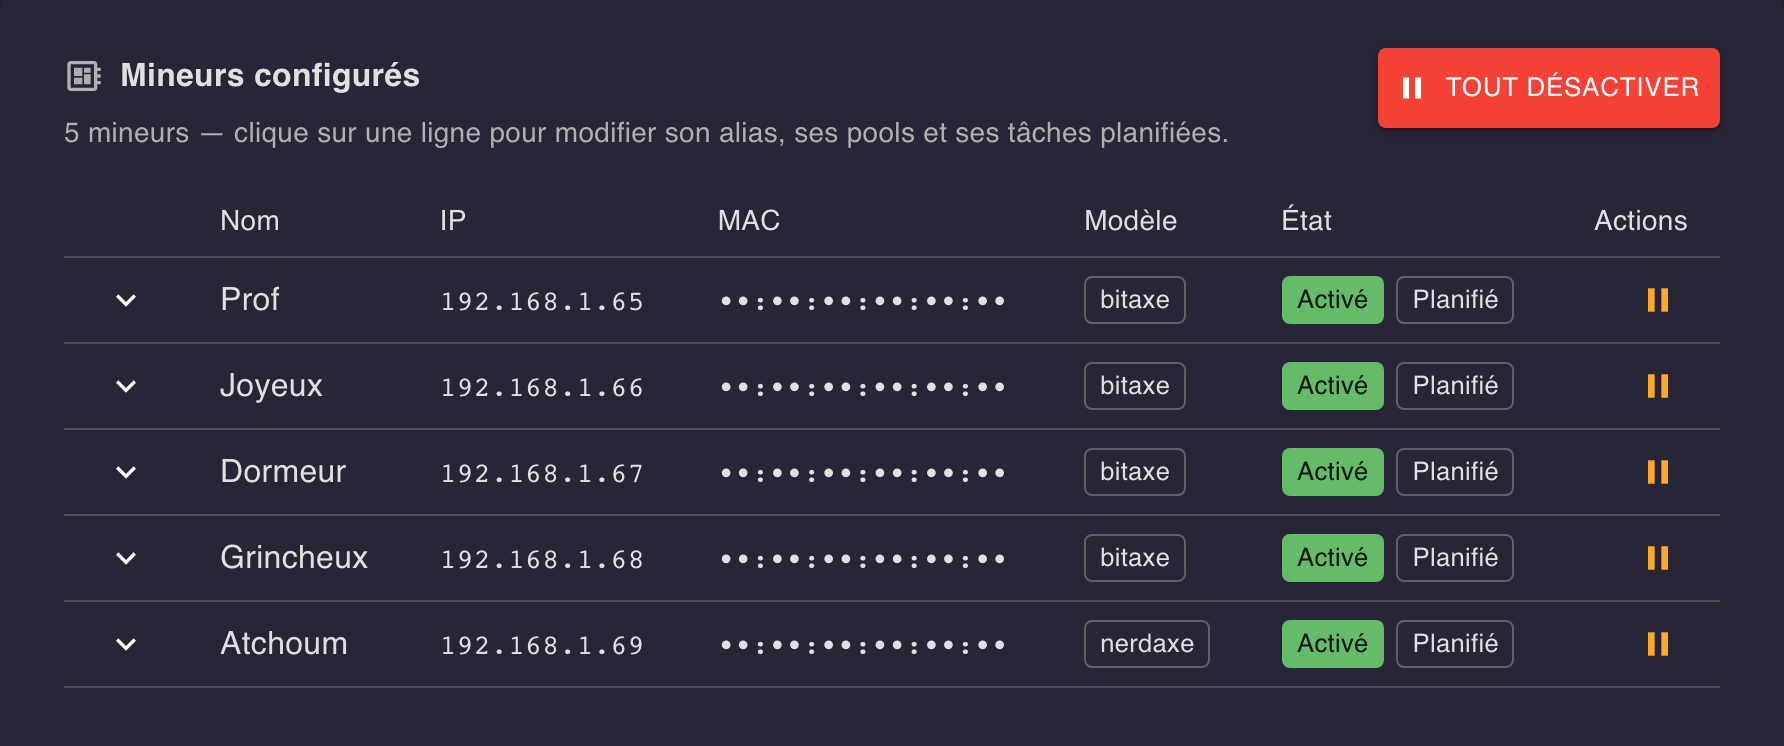
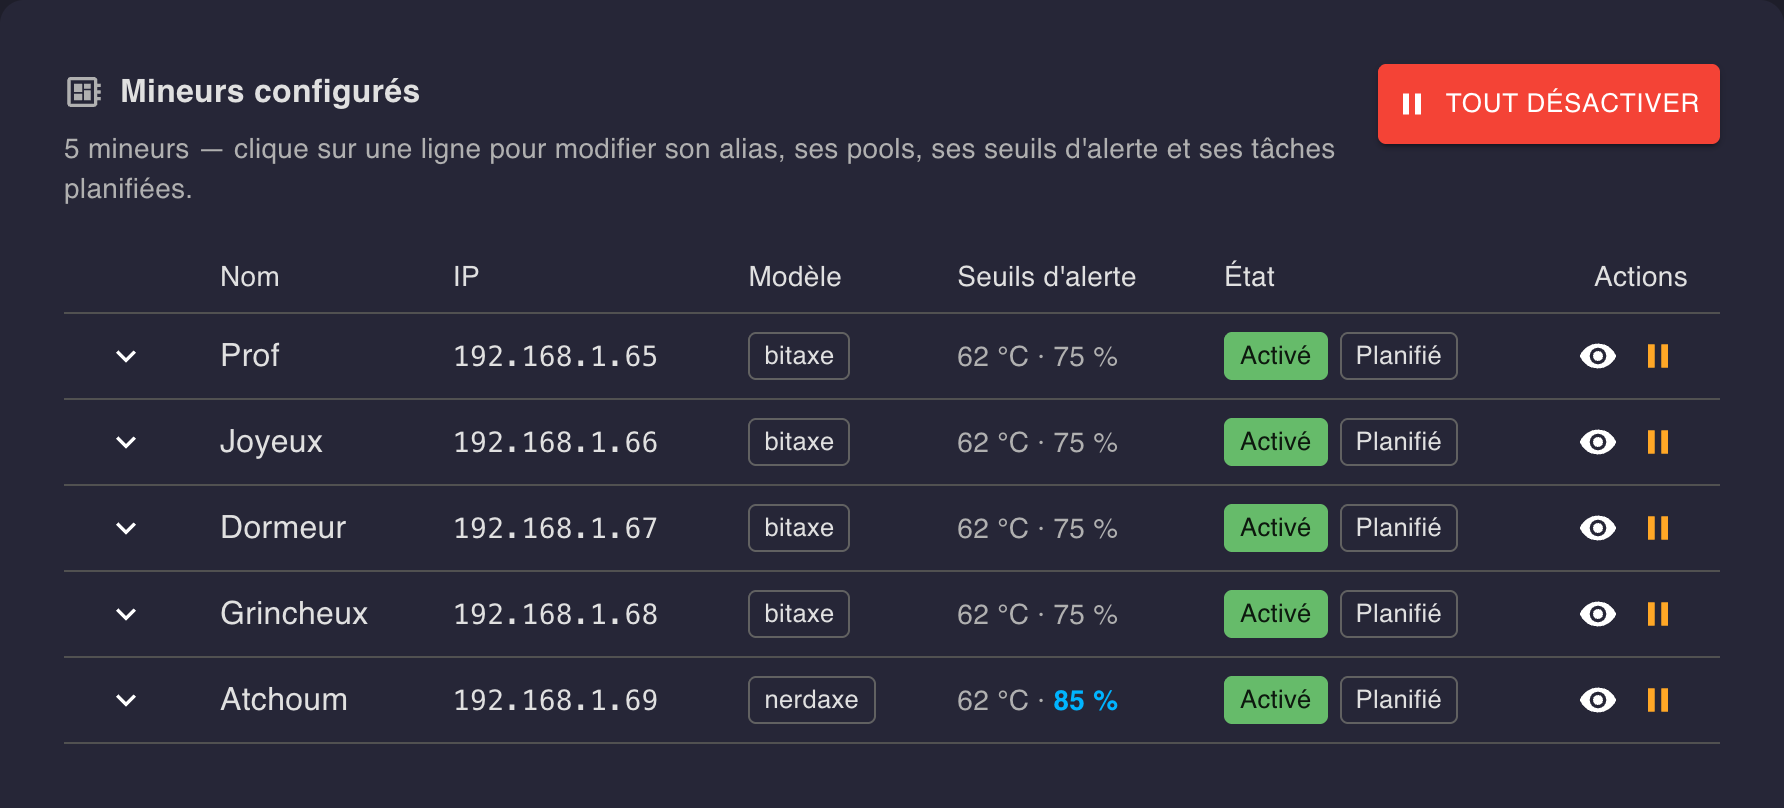
feat: view a miner's details from Configuration › Miners
An eye in each row opens the dashboard's miner panel, read-only mode
included. The docs' screenshots brought up to date, alert thresholds
included.

diff --git a/ui/src/pages/settings/MinersSettings.tsx b/ui/src/pages/settings/MinersSettings.tsx
@@ -13,6 +13,7 @@ import SearchIcon from "@mui/icons-material/Search";
 import SearchOffIcon from "@mui/icons-material/SearchOff";
 import SelectAllIcon from "@mui/icons-material/SelectAll";
 import TravelExploreIcon from "@mui/icons-material/TravelExplore";
+import VisibilityIcon from "@mui/icons-material/Visibility";
 import WifiFindIcon from "@mui/icons-material/WifiFind";
 import {
   Alert,
@@ -37,6 +38,7 @@ import {
   Typography,
 } from "@mui/material";
 
+import { MinerDrawer } from "@/components/dashboard/drawer/MinerDrawer";
 import { ActionButton } from "@/components/ui/ActionButton";
 import { AlertThresholdsEditor } from "@/components/ui/AlertThresholdsEditor";
 import { AliasEditor } from "@/components/ui/AliasEditor";
@@ -50,6 +52,8 @@ import { useAppSettings } from "@/hooks/useAppSettings";
 import { useDiscovery } from "@/hooks/useDiscovery";
 import { useMiners, useUiFeatures } from "@/hooks/useMiners";
 import { useMinersConfig } from "@/hooks/useMinersConfig";
+import { useMinersHistory } from "@/hooks/useMinersHistory";
+import { useMinerStatus } from "@/hooks/useMinerStatus";
 import { commonAlertThresholds } from "@/schemas/appSettingsSchema";
 import { type MinerConfig, normalizeMac } from "@/schemas/minerConfigSchema";
 import { type Miner } from "@/schemas/minerSchema";
@@ -123,6 +127,13 @@ const ConfiguredMinersTable = ({
   const enabledCount = miners.filter((m) => m.enabled).length;
   const [expandedMac, setExpandedMac] = useState<string | null>(null);
   const isEmpty = miners.length === 0;
+  const { statusOf } = useMinerStatus();
+  const { data: history } = useMinersHistory();
+  // Kept apart from the open flag so the panel still shows its miner while
+  // it slides out -- same as Home.
+  const [viewedMac, setViewedMac] = useState<string | null>(null);
+  const [drawerOpen, setDrawerOpen] = useState(false);
+  const viewed = viewedMac ? liveMinersByMac.get(viewedMac) : undefined;
 
   return (
     <Box>
@@ -170,11 +181,9 @@ const ConfiguredMinersTable = ({
               <TableCell>{t("settingsPage.configured.model")}</TableCell>
               <TableCell>{t("settingsPage.configured.thresholds")}</TableCell>
               <TableCell>{t("settingsPage.configured.status")}</TableCell>
-              <Writable readOnly={readOnly}>
-                <TableCell align="right">
-                  {t("settingsPage.configured.actions")}
-                </TableCell>
-              </Writable>
+              <TableCell align="right">
+                {t("settingsPage.configured.actions")}
+              </TableCell>
             </TableRow>
           </TableHead>
           <TableBody>
@@ -315,10 +324,26 @@ const ConfiguredMinersTable = ({
                         )}
                       </Stack>
                     </TableCell>
-                    <Writable readOnly={readOnly}>
-                      <TableCell align="right">
-                        {/* An icon, its word in the tooltip: the table
-                            fits its panel without scrolling sideways. */}
+                    <TableCell align="right" sx={{ whiteSpace: "nowrap" }}>
+                      {/* Icons, their word in the tooltip: the table fits
+                          its panel without scrolling sideways. */}
+                      <Tooltip title={t("settingsPage.configured.view")}>
+                        <span>
+                          <IconButton
+                            size="small"
+                            disabled={!liveMinersByMac.has(key)}
+                            aria-label={t("settingsPage.configured.view")}
+                            onClick={(e) => {
+                              e.stopPropagation();
+                              setViewedMac(key);
+                              setDrawerOpen(true);
+                            }}
+                          >
+                            <VisibilityIcon fontSize="small" />
+                          </IconButton>
+                        </span>
+                      </Tooltip>
+                      <Writable readOnly={readOnly}>
                         <Tooltip
                           title={
                             m.enabled
@@ -351,12 +376,12 @@ const ConfiguredMinersTable = ({
                             </IconButton>
                           </span>
                         </Tooltip>
-                      </TableCell>
-                    </Writable>
+                      </Writable>
+                    </TableCell>
                   </TableRow>
                   <TableRow>
                     <TableCell
-                      colSpan={readOnly ? 6 : 7}
+                      colSpan={7}
                       sx={{
                         py: 0,
                         borderBottom: isExpanded ? undefined : "none",
@@ -399,6 +424,17 @@ const ConfiguredMinersTable = ({
           </TableBody>
         </DataTable>
       )}
+      <MinerDrawer
+        open={drawerOpen}
+        miner={viewed}
+        status={viewed && statusOf(viewed)}
+        hashRateHistory={
+          viewed
+            ? history?.miners.find((h) => h.ip === viewed.ip)?.hashRate
+            : undefined
+        }
+        onClose={() => setDrawerOpen(false)}
+      />
     </Box>
   );
 };

diff --git a/ui/src/pages/settings/Settings.test.tsx b/ui/src/pages/settings/Settings.test.tsx
@@ -10,6 +10,7 @@ import axios from "axios";
 import { beforeEach, describe, expect, it, vi } from "vitest";
 
 import { App } from "@/App";
+import { makeMiner } from "@/test/miner";
 import type { UIVisibility } from "@/types/uiFeatures";
 
 vi.mock("axios");
@@ -49,6 +50,9 @@ const miner = {
   alerts: { tempHigh: 0, fanHigh: 95 },
 };
 
+// What /api/miners reports -- none unless a test says otherwise.
+let liveMiners: unknown[] = [];
+
 const mockBackend = (settingsFlag: UIVisibility) => {
   mockedAxios.get.mockImplementation((url: string) => {
     if (url === "/api/info") {
@@ -73,7 +77,12 @@ const mockBackend = (settingsFlag: UIVisibility) => {
       return Promise.resolve({ data: { bitaxes: [miner] } });
     }
     if (url === "/api/miners") {
-      return Promise.resolve({ data: { configured: 1, total: 0, miners: [] } });
+      return Promise.resolve({
+        data: { configured: 1, total: liveMiners.length, miners: liveMiners },
+      });
+    }
+    if (url === "/api/miners/history") {
+      return Promise.resolve({ data: { buckets: [], miners: [] } });
     }
     return Promise.reject(new Error(`not mocked: ${url}`));
   });
@@ -123,12 +132,6 @@ const GATED: Gated[] = [
     element: "the Disable all button",
     ready: minersReady,
     find: () => button("Disable all"),
-  },
-  {
-    section: "miners",
-    element: "the table's Actions column",
-    ready: minersReady,
-    find: () => screen.queryByRole("columnheader", { name: "Actions" }),
   },
   {
     section: "miners",
@@ -404,5 +407,41 @@ describe("the configured miners table", () => {
     expect(
       screen.getByLabelText("Every miner's (Configuration › System)"),
     ).toHaveTextContent("62 °C");
+  });
+});
+
+describe("a configured miner's View button", () => {
+  beforeEach(() => {
+    liveMiners = [];
+  });
+
+  it.each(["enabled", "readonly"] as const)(
+    "opens the dashboard's miner panel (settings %s)",
+    async (flag) => {
+      liveMiners = [
+        makeMiner({
+          ip: "192.168.1.10",
+          macAddr: "AA:BB:CC:DD:EE:01",
+          hostname: "bitaxe-1",
+        }),
+      ];
+      mockBackend(flag);
+      renderAt("/settings/miners");
+      await minersReady();
+
+      await userEvent.setup().click(button("View") as HTMLElement);
+
+      expect(
+        await screen.findByRole("button", { name: "Close" }),
+      ).toBeInTheDocument();
+    },
+  );
+
+  it("is disabled while the miner has no reading yet", async () => {
+    mockBackend("enabled");
+    renderAt("/settings/miners");
+    await minersReady();
+
+    expect(button("View")).toBeDisabled();
   });
 });

diff --git a/docs/configuration.md b/docs/configuration.md
@@ -71,7 +71,8 @@ configuration.
 
 La liste des mineurs déjà configurés, avec leur IP, modèle, seuils
 d'alerte (en couleur ceux propres au mineur) et état — activation/
-désactivation en un clic, par mineur ou tous à la fois.
+désactivation en un clic, par mineur ou tous à la fois. L'œil ouvre le
+panneau de détail du mineur, le même que sur le [tableau de bord]({{ '/dashboard.html' | relative_url }}).
 
 ![Mineurs configurés]({{ '/assets/images/settings-configured-miners.png' | relative_url }})
 
@@ -88,6 +89,8 @@ Les seuils de température et de ventilateur de ce mineur seulement —
 utile pour un modèle qui tourne naturellement plus chaud ou avec un
 ventilateur plus haut. Un champ vide suit les seuils de tous les mineurs
 (voir [Système](#systeme)), affichés en grisé.
+
+![Seuils d'alerte d'un mineur]({{ '/assets/images/settings-miner-alert-thresholds.png' | relative_url }})
 
 #### Planificateur
 
@@ -280,6 +283,8 @@ ventilateur dépasse son seuil, et se termine 2 °C ou 5 % en dessous. Les
 seuils réglés ici valent pour tous les mineurs — chacun peut avoir les
 siens dans sa ligne de [Mineurs](#mineurs). Vides, ce sont les valeurs
 d'origine : 62 °C et 75 %.
+
+![Seuils d'alerte]({{ '/assets/images/settings-alert-thresholds.png' | relative_url }})
 
 ### Dashboards des pools
 

diff --git a/docs/en/configuration.md b/docs/en/configuration.md
@@ -71,7 +71,8 @@ Miners found appear below, ready to be added to the configuration.
 
 The list of already-configured miners, with their IP, model, alert
 thresholds (in color, a miner's own) and status — enable/disable in one
-click, per miner or all at once.
+click, per miner or all at once. The eye opens the miner's detail panel,
+the same as on the [dashboard]({{ '/en/dashboard.html' | relative_url }}).
 
 ![Configured miners]({{ '/assets/images/settings-configured-miners.png' | relative_url }})
 
@@ -87,6 +88,8 @@ fallback pool (URL, port, user).
 This miner's own temperature and fan thresholds — handy for a model that
 naturally runs hotter or with a higher fan. An empty field follows every
 miner's thresholds (see [System](#system)), shown greyed out.
+
+![A miner's alert thresholds]({{ '/assets/images/settings-miner-alert-thresholds.png' | relative_url }})
 
 #### Scheduler
 
@@ -273,6 +276,8 @@ An alert is raised when the chip temperature or the fan speed goes above
 its threshold, and ends 2 °C or 5 % under. The thresholds set here apply to
 every miner — each can have its own in its row of [Miners](#miners).
 Empty, they're the built-in values: 62 °C and 75 %.
+
+![Alert thresholds]({{ '/assets/images/settings-alert-thresholds.png' | relative_url }})
 
 ### Pool dashboards
 
